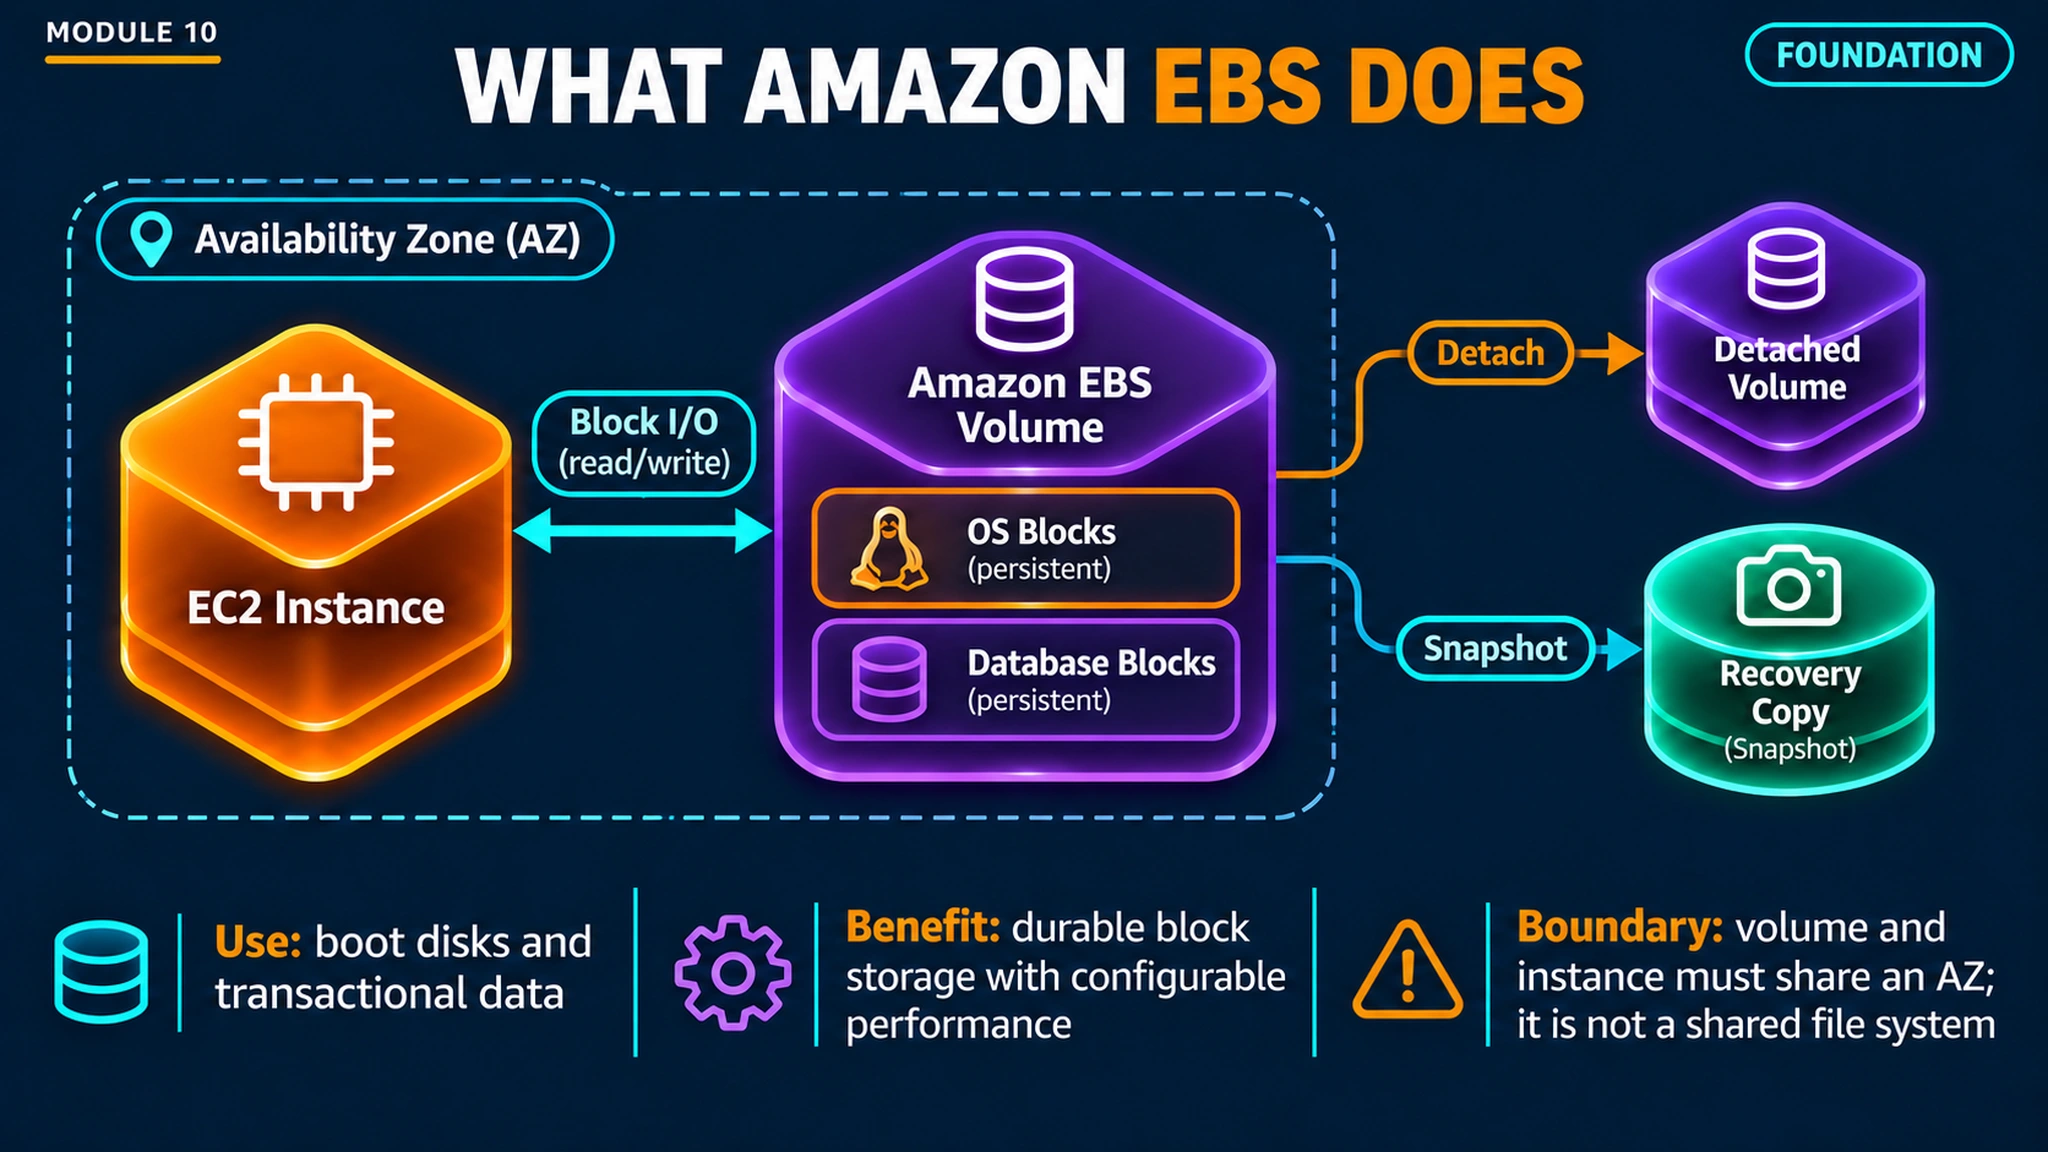
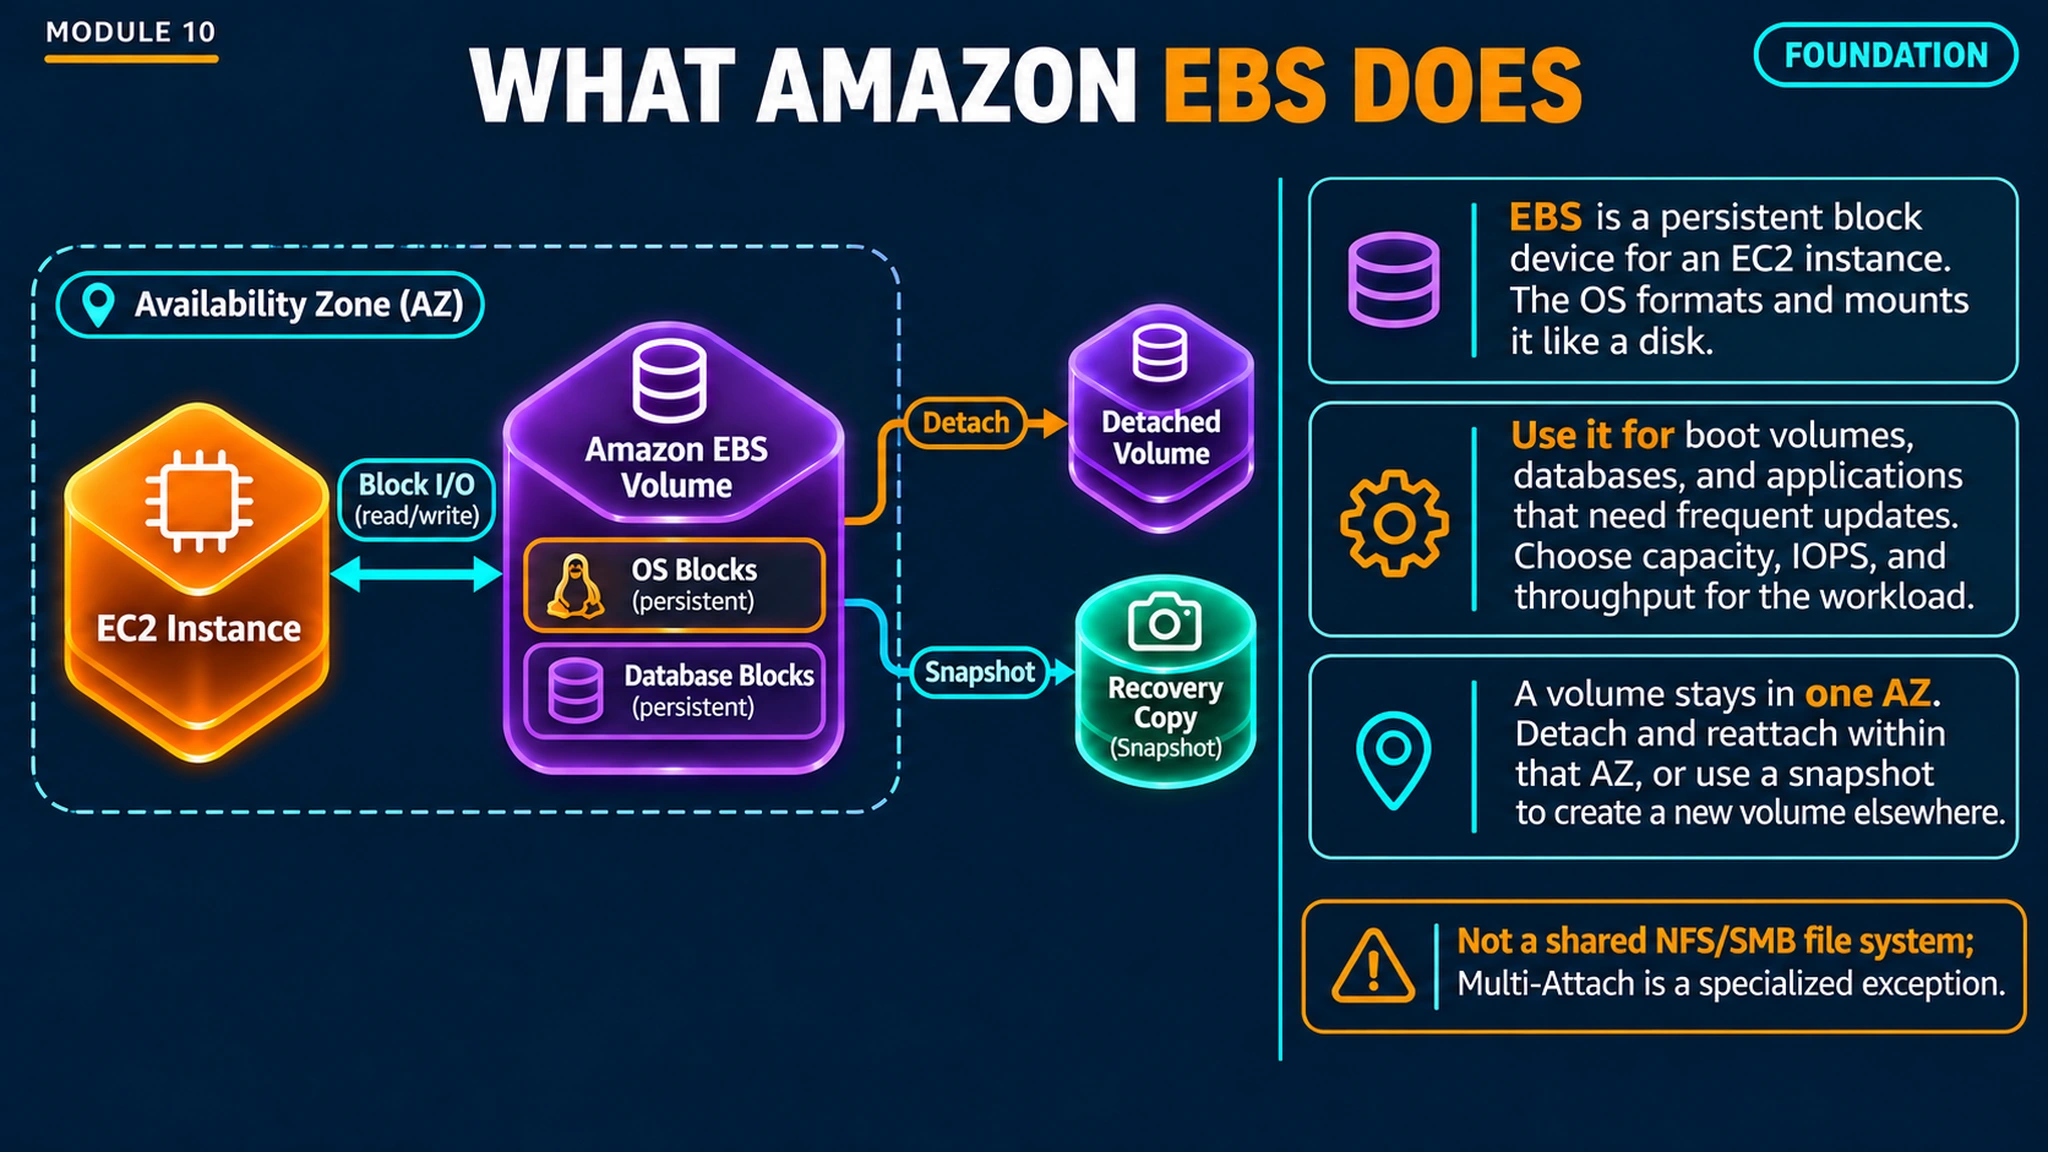
Expand SAP module 10 foundation explanations

diff --git a/app/components/SapModuleLessons.tsx b/app/components/SapModuleLessons.tsx
@@ -39,7 +39,7 @@ export default function SapModuleLessons({moduleId}:{moduleId:string}){
  const own=publishedModuleLessons(moduleId);
  const [availableOnly,setAvailableOnly]=useState(false),[query,setQuery]=useState(''),[active,setActive]=useState<number|null>(null);
  const opener=useRef<HTMLElement|null>(null),dialog=useRef<HTMLDivElement|null>(null);
- const visuals=own.filter(l=>l.asset&&l.status==='qa-passed');const imageUrl=(asset:string)=>moduleId==='00'?`${asset}?v=sap-m00-cover-v2`:moduleId==='02'?`${asset}?v=sap-m02-approved-32`:asset;const study=useStudyProgress('sap',active===null?null:visuals[active]?.id||null);
+ const visuals=own.filter(l=>l.asset&&l.status==='qa-passed');const imageUrl=(asset:string)=>moduleId==='00'?`${asset}?v=sap-m00-cover-v2`:moduleId==='02'?`${asset}?v=sap-m02-approved-32`:moduleId==='10'&&asset.includes('/foundation-')?`${asset}?v=sap-m10-foundation-v2`:asset;const study=useStudyProgress('sap',active===null?null:visuals[active]?.id||null);
  useEffect(()=>{const lesson=new URLSearchParams(window.location.search).get('lesson');const index=visuals.findIndex(l=>l.id===lesson);if(index>=0)setActive(index)},[moduleId]);
  useEffect(()=>{if(active===null)return;const previous=document.body.style.overflow;document.body.style.overflow='hidden';const onKey=(e:KeyboardEvent)=>{if(e.key==='Escape'){setActive(null);opener.current?.focus()}if(e.key==='ArrowRight'){e.preventDefault();setActive(n=>n===null?n:Math.min(visuals.length-1,n+1))}if(e.key==='ArrowLeft'){e.preventDefault();setActive(n=>n===null?n:Math.max(0,n-1))}if(e.key==='Tab'){const buttons=Array.from(dialog.current?.querySelectorAll<HTMLButtonElement>('button:not(:disabled)')??[]);const first=buttons[0],last=buttons[buttons.length-1];if(e.shiftKey&&document.activeElement===first){e.preventDefault();last?.focus()}else if(!e.shiftKey&&document.activeElement===last){e.preventDefault();first?.focus()}}};document.addEventListener('keydown',onKey);return()=>{document.body.style.overflow=previous;document.removeEventListener('keydown',onKey)}},[active,visuals.length]);
  const shown=own.filter(l=>(!availableOnly||l.asset)&&`${l.title} ${(l.learningNotes||[]).join(' ')} ${l.decisionCue||''}`.toLowerCase().includes(query.toLowerCase()));
